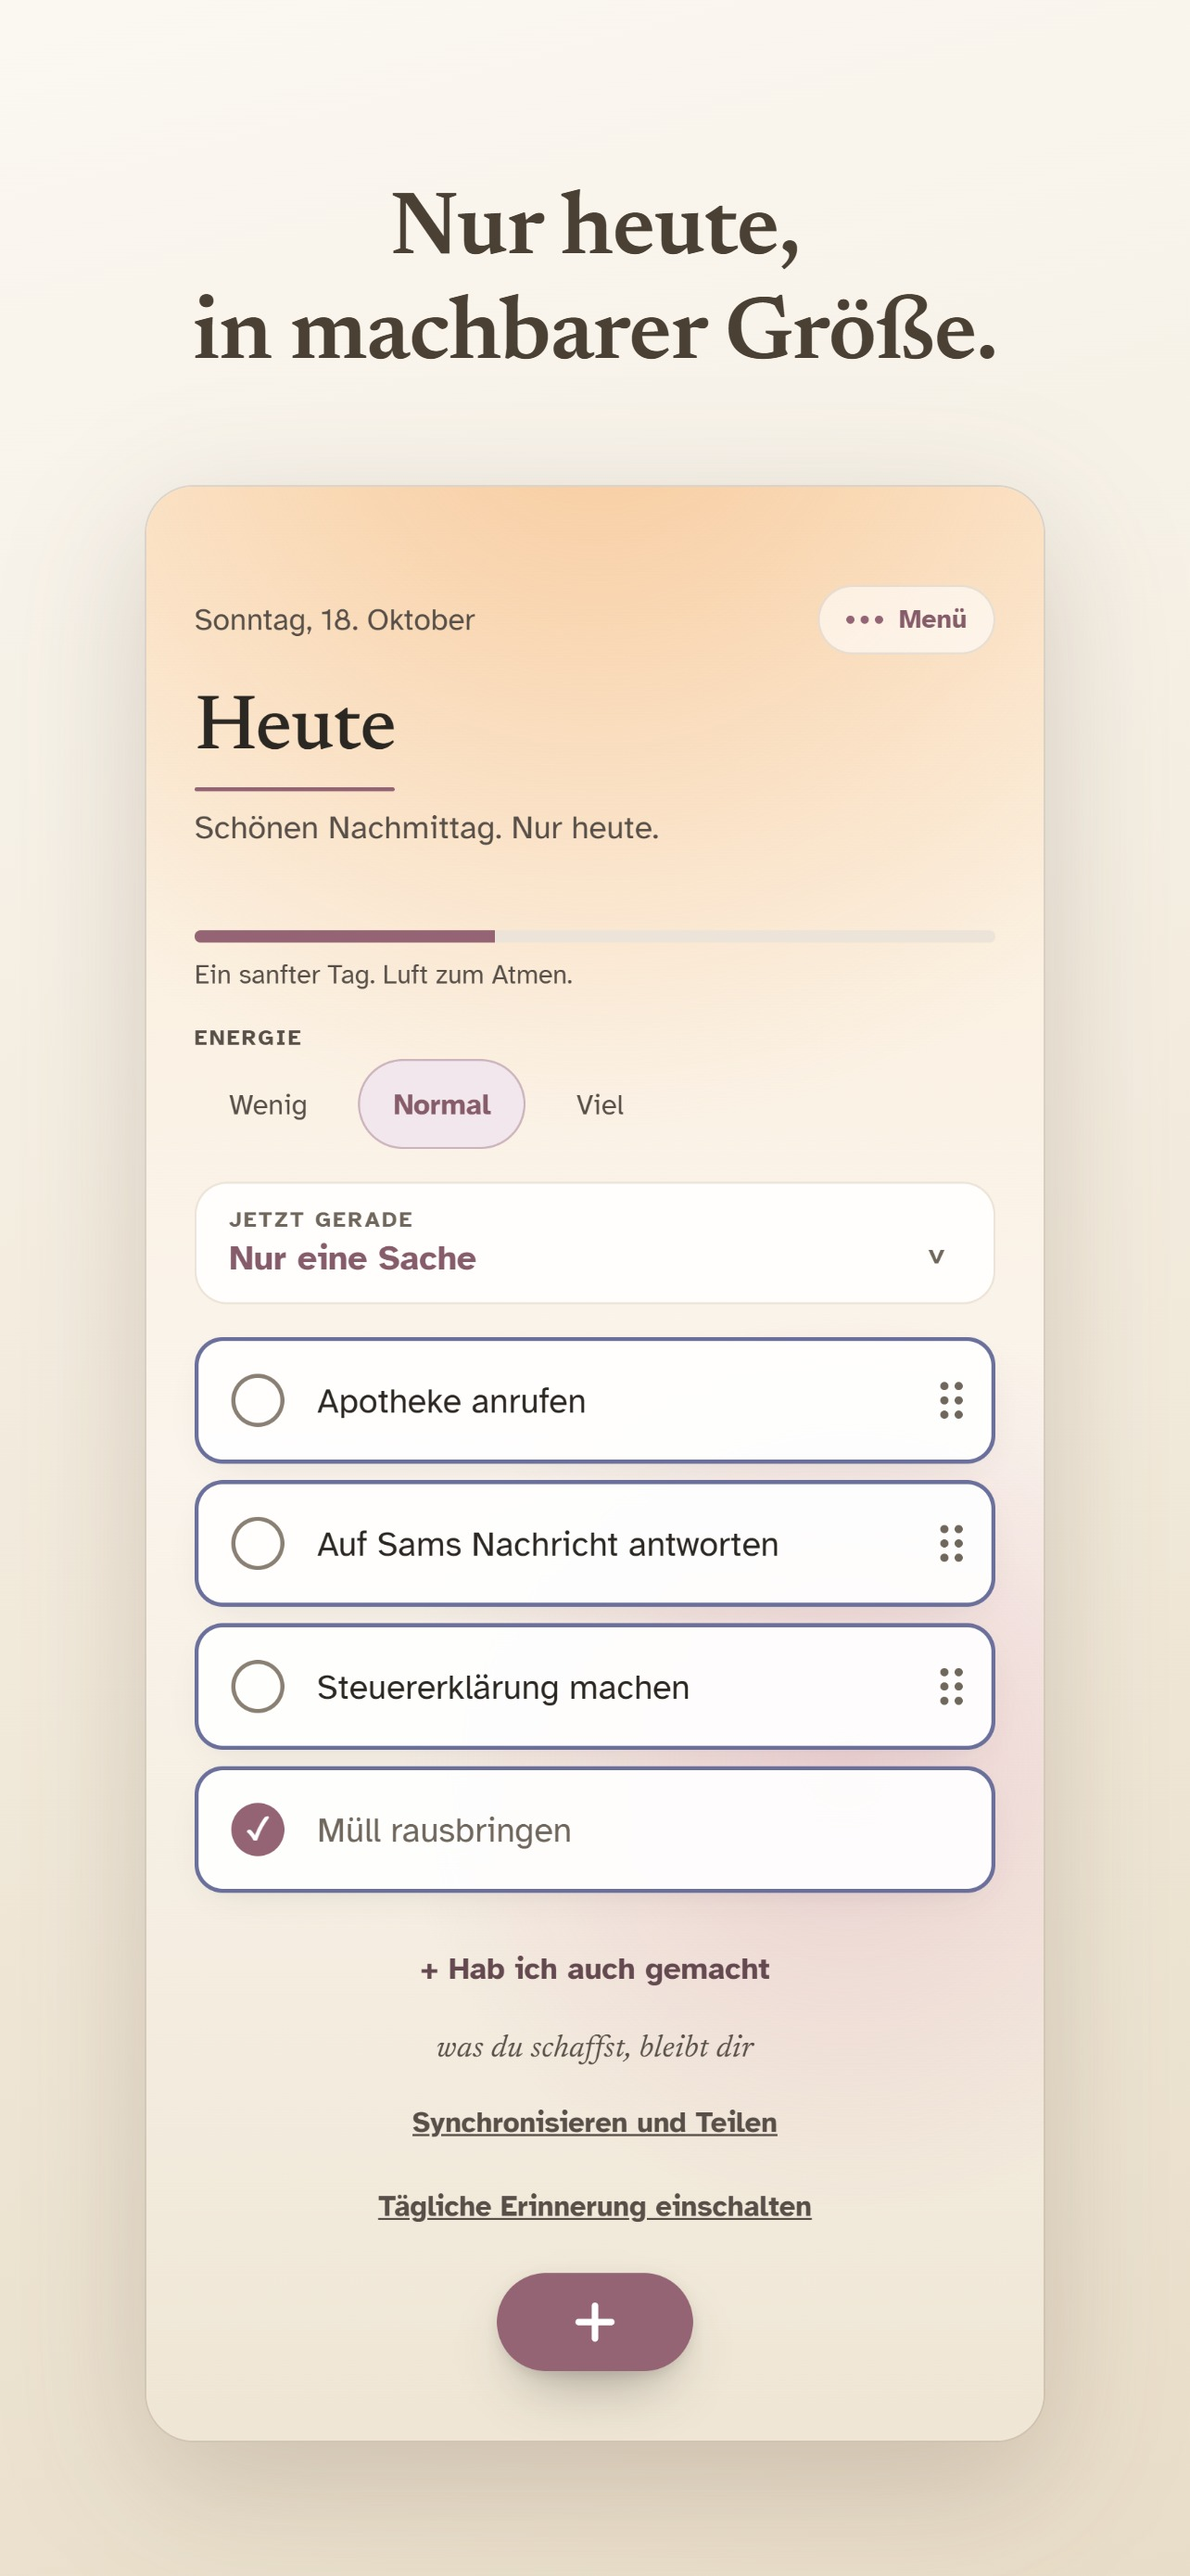
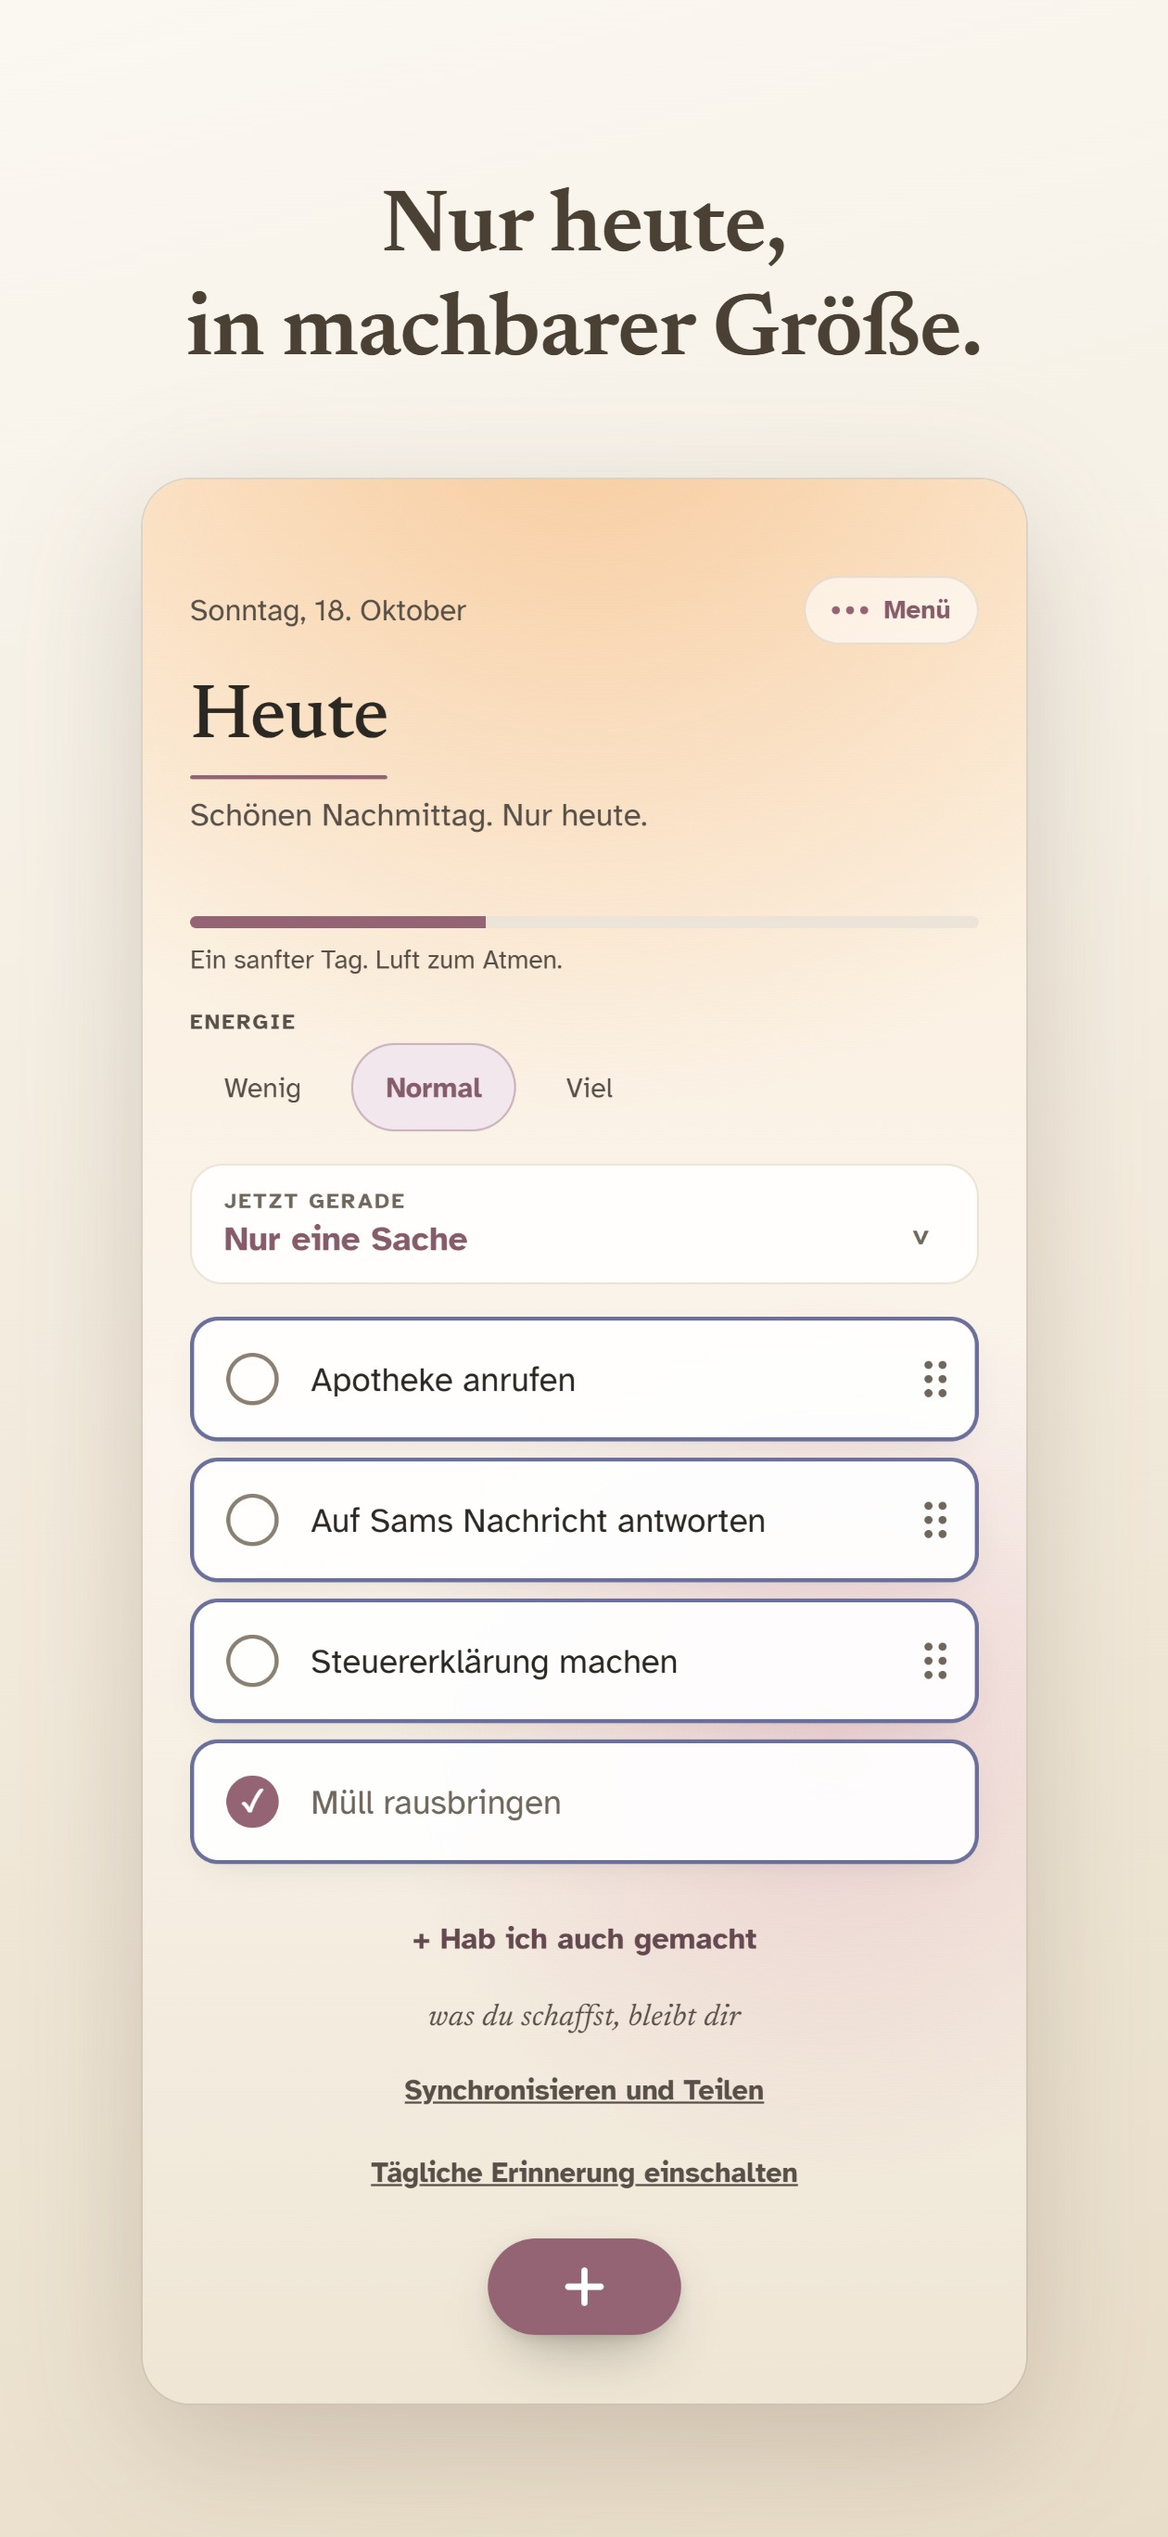
docs(store): the App Store's 6.5-inch slides at 1260x2736
App Store Connect refused the 1284x2778 files in the 6.5-inch slot. It now
takes 1260x2736 (the iPhone Air's 6.5-inch screen), 1290x2796 or 1320x2868,
and left empty it showed the 6.3 set scaled up, which Melroy did not want.
The generator renders 6.5 at 1260x2736 in every language, scaled down from
the same 1320x2868 capture. The 6.9 and 6.3 sets are unchanged.

diff --git a/decision-log.md b/decision-log.md
@@ -11014,3 +11014,13 @@ language too please. For both iOS and Android please." Until now both stores sho
 - **Flipping or retouching the keepsake art:** a crop is a framing choice, a doctored picture is not.
 - **A localised Play feature graphic, for now:** its subline is a sentence no language has yet, so it waits for a
   native read; the English one stays on every listing until Melroy wants it.
+
+## 2026-10-26: the App Store's 6.5-inch slides move to 1260x2736
+
+Melroy, uploading the 1.10.0 set: the 6.5-inch slot refused our 1284x2778 files. It now lists 1260x2736 (the iPhone
+Air's 6.5-inch screen), 1290x2796 and 1320x2868, and with nothing uploaded it shows "Using Existing Assets", which
+here meant the 6.3 set scaled UP. Melroy: "I'd rather not scale up. Scaling down is whatever."
+
+**Decided:** the generator renders `6.5` at 1260x2736, every language, from the same 1320x2868 capture (a scale
+down, so nothing softens). **Decided against:** uploading the 6.9 set into that slot as well (it would pass, but
+the 6.5 folder would then be a set nobody can use), and leaving the slot to scale the 6.3 set up.

diff --git a/docs/release-notes/1.10.0.md b/docs/release-notes/1.10.0.md
@@ -104,7 +104,7 @@ so the other groups can stay empty; `6.3/` is there only if App Store Connect ma
 | Italian | `.../6.9/it/`, `6.5/it/`, `6.3/it/` |
 | Spanish (Mexico), and Spanish (Spain) | `.../6.9/es/`, `6.5/es/`, `6.3/es/`, the same set in both |
 
-6.9 is 1320x2868, 6.5 is 1284x2778, 6.3 is 1206x2622. No iPad slot: `supportsTablet` is false. Seven
+6.9 is 1320x2868, 6.5 is 1260x2736 (the iPhone Air's size, which the 6.5 slot asks for since 1.10.0: the old 1284x2778 is refused), 6.3 is 1206x2622. Upload `6.5` rather than letting the slot use existing assets, which scales the 6.3 set UP. No iPad slot: `supportsTablet` is false. Seven
 localisations take two sets each, 84 uploads in all.
 
 **Google Play Console, Grow users, Store presence, Store listings.** The default listing (en-AU) first, then each

diff --git a/docs/appstore/listing-copy.md b/docs/appstore/listing-copy.md
@@ -233,7 +233,7 @@ Optimization test settles that slot later, which needs no new version.
 | Folder | Size | Slot |
 |---|---|---|
 | `docs/appstore/captioned/6.9/<lang>/` | 1320x2868 | iPhone 6.9-inch (Dynamic Island, large). Upload this set first. |
-| `docs/appstore/captioned/6.5/<lang>/` | 1284x2778 | iPhone 6.5-inch, the slot App Store Connect demanded on 2026-08-17. |
+| `docs/appstore/captioned/6.5/<lang>/` | 1260x2736 | iPhone 6.5-inch. 1284x2778 until 2026-10-26, when the slot refused it: it now takes 1260x2736 (the iPhone Air), 1290x2796 or 1320x2868, and left empty it scales the 6.3 set up. |
 | `docs/appstore/captioned/6.3/<lang>/` | 1206x2622 | iPhone 6.3-inch (Dynamic Island, medium), the size Apple's page now names as required. |
 
 `<lang>` is `en`, `de`, `fr`, `es` or `it`.
